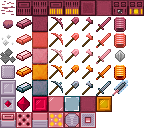
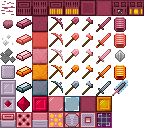
renamed furnace heater internally

Changed region(s): [[0.6667, 0.875, 0.7778, 1.0]]

diff --git a/split_textures.py b/split_textures.py
@@ -8,14 +8,14 @@ def MT(basename):
     return MOD_NAME + '_' + basename + '.png'
 
 TEXTURE_FILES = [
-    [MT('ore_raw'), MT('fheater_front_unlit'), MT('raw_sides_unlit'), MT('fheater_front_lit'), MT('raw_sides_lit'), MT('raw_mach_bot'), MT('raw_mach_top'), MT('asmelt_front_unlit'), MT('asmelt_front_lit')],
+    [MT('ore_raw'), MT('htr_furnace_front_unlit'), MT('raw_sides_unlit'), MT('htr_furnace_front_lit'), MT('raw_sides_lit'), MT('raw_mach_bot'), MT('raw_mach_top'), MT('asmelt_front_unlit'), MT('asmelt_front_lit')],
     [MT('lump_raw'), MT('ingot_raw'), MT('block_raw'), MT('tool_pick_raw'), MT('tool_shovel_raw'), MT('tool_axe_raw'), MT('tool_sword_raw'), MT('item_coil_raw')],
     [MT('item_cryst'), MT('ingot_tcop'), MT('block_tcop'), MT('tool_pick_tcop'), MT('tool_shovel_tcop'), MT('tool_axe_tcop'), MT('tool_sword_tcop'), MT('item_coil_tcop')],
     [MT('item_cryst_bg'), MT('ingot_tste'), MT('block_tste'), MT('tool_pick_tste'), MT('tool_shovel_tste'), MT('tool_axe_tste'), MT('tool_sword_tste')],
     [MT('item_ceramic'), MT('ingot_tgol'), MT('block_tgol'), MT('tool_pick_tgol'), MT('tool_shovel_tgol'), MT('tool_axe_tgol'), MT('tool_sword_tgol'), MT('item_coil_tgol')],
     [MT('block_ceramic'), MT('ingot_cgls'), MT('block_cgls'), MT('tool_pick_cgls'), MT('tool_shovel_cgls'), MT('tool_axe_cgls'), MT('tool_sword_cgls'), MT('tool_ore_saw')],
     [MT('thermobox'), MT('item_thermese'), MT('block_thermese'), MT('frame_tste'), MT('frame_cgls'), MT('frame_raw'), MT('block_thermese_hot')],
-    [MT('htfurn_front'), MT('htfurn_top_unlit'), MT('htfurn_sides'), MT('htfurn_top_lit'), MT('vulcan_sides'), MT('vulcan_top')]
+    [MT('htfurn_front'), MT('htfurn_top_unlit'), MT('htfurn_sides'), MT('htfurn_top_lit'), MT('vulcan_sides'), MT('vulcan_top'), MT('htr_solar_top'), MT('htr_solar_sides')]
 ]
 
 with Image(filename=SOURCE_FILE) as source:
